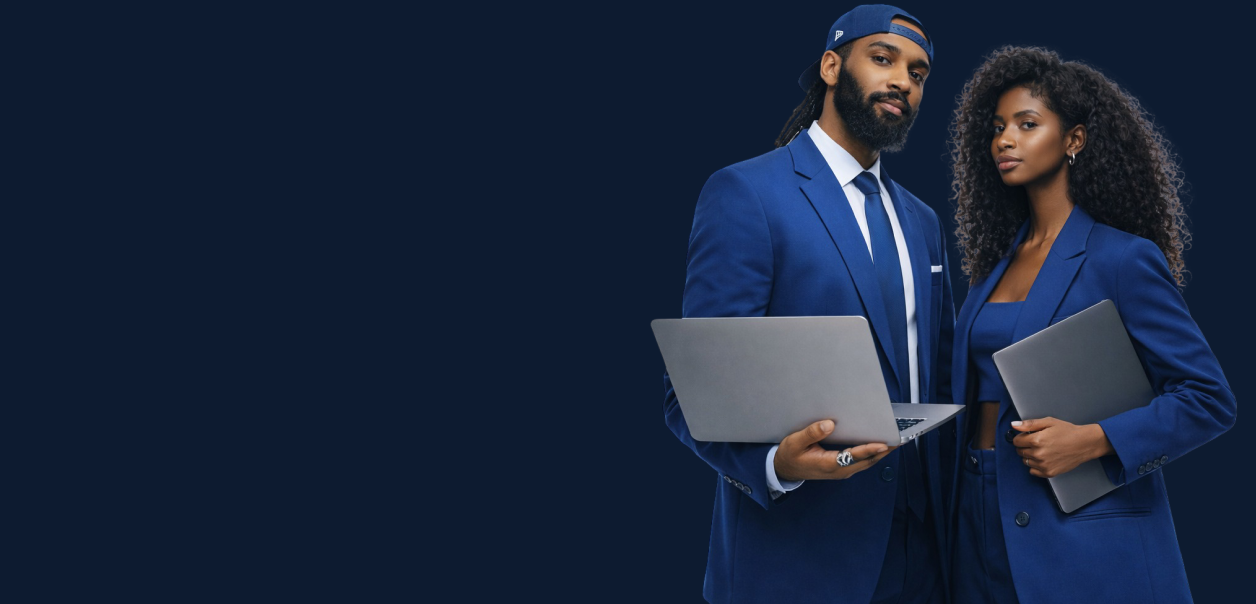
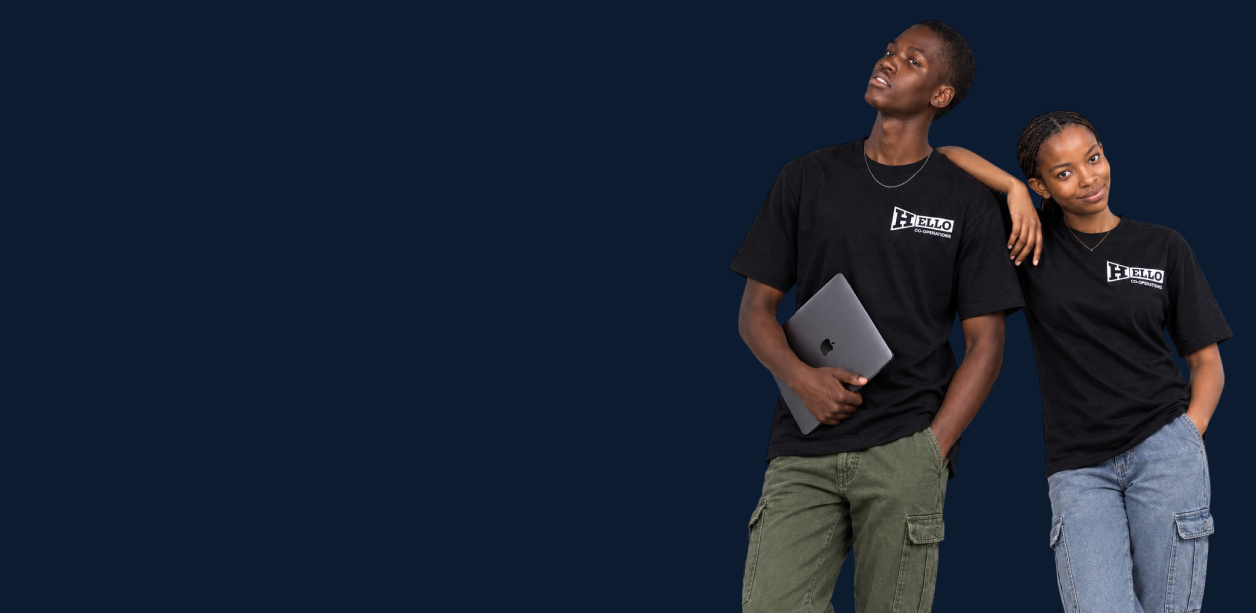
new commit

Changed region(s): [[0.4968, 0.0, 0.9936, 1.0]]

diff --git a/src/pages/About.tsx b/src/pages/About.tsx
@@ -22,11 +22,11 @@ export function About() {
           <div className="grid grid-cols-1 lg:grid-cols-2 gap-16 items-center">
             <div className="relative rounded-3xl overflow-hidden aspect-[4/5] sm:aspect-[5/4] lg:aspect-square shadow-2xl min-h-[320px] md:min-h-[420px]">
               <img
-                src="/office.jfif"
+                src="/office.png"
                 alt="Office space"
                 loading="lazy"
                 decoding="async"
-                className="w-full h-full object-cover"
+                className="w-full h-full object-cover object-[center_0%]"
               />
             </div>
             <div className="space-y-8">
